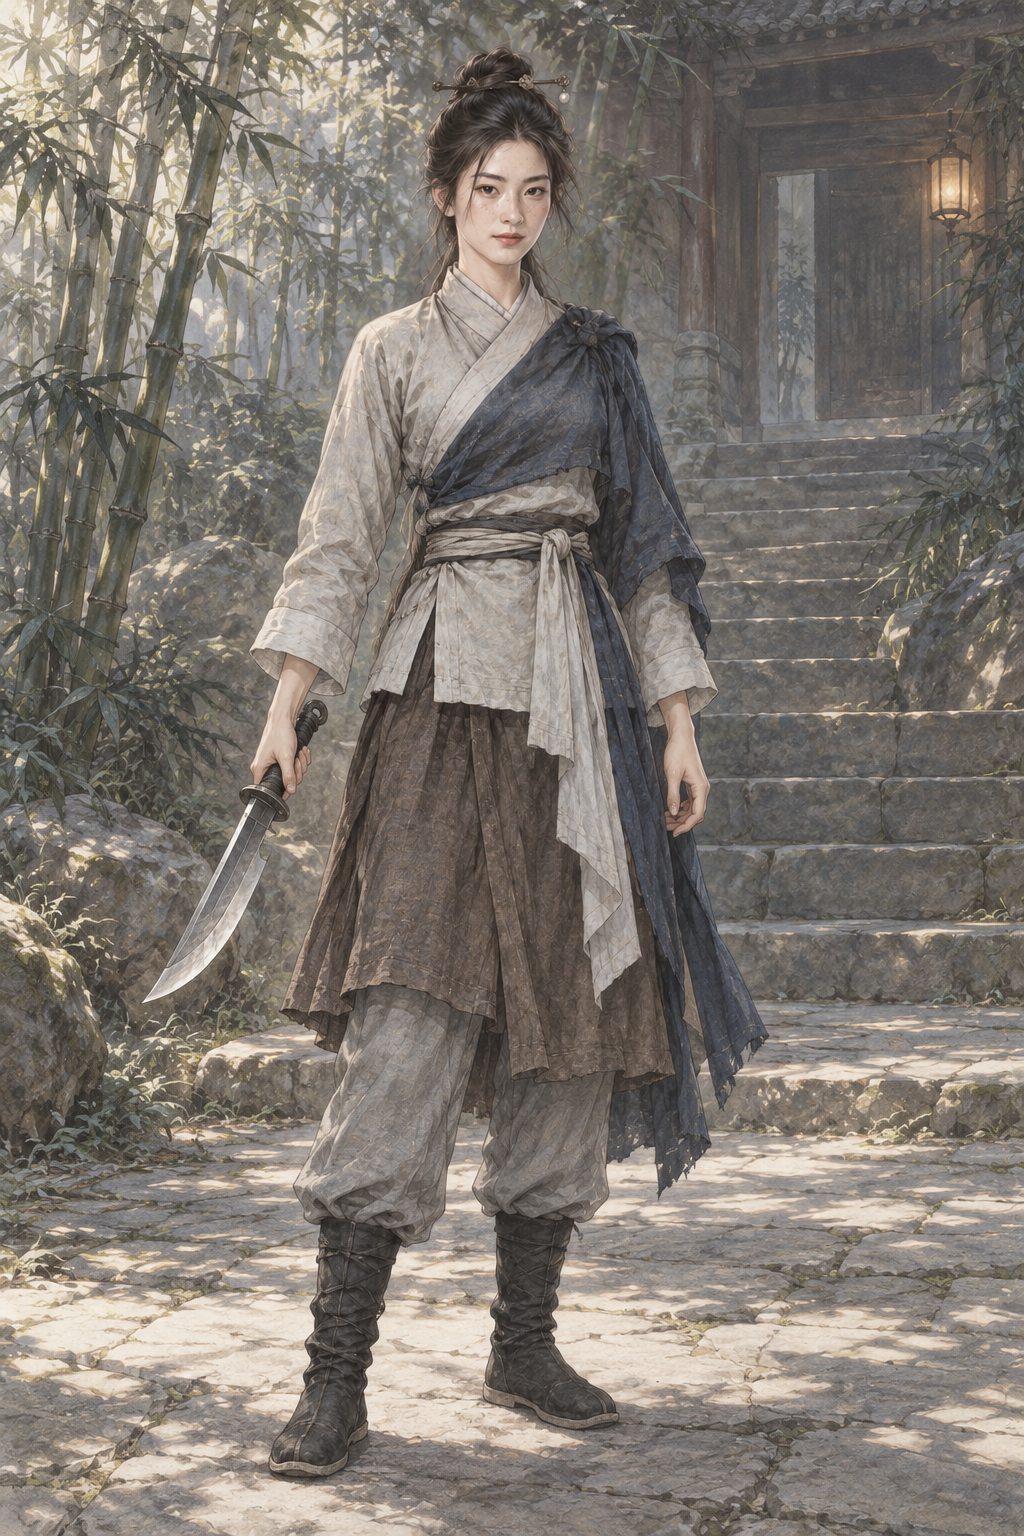
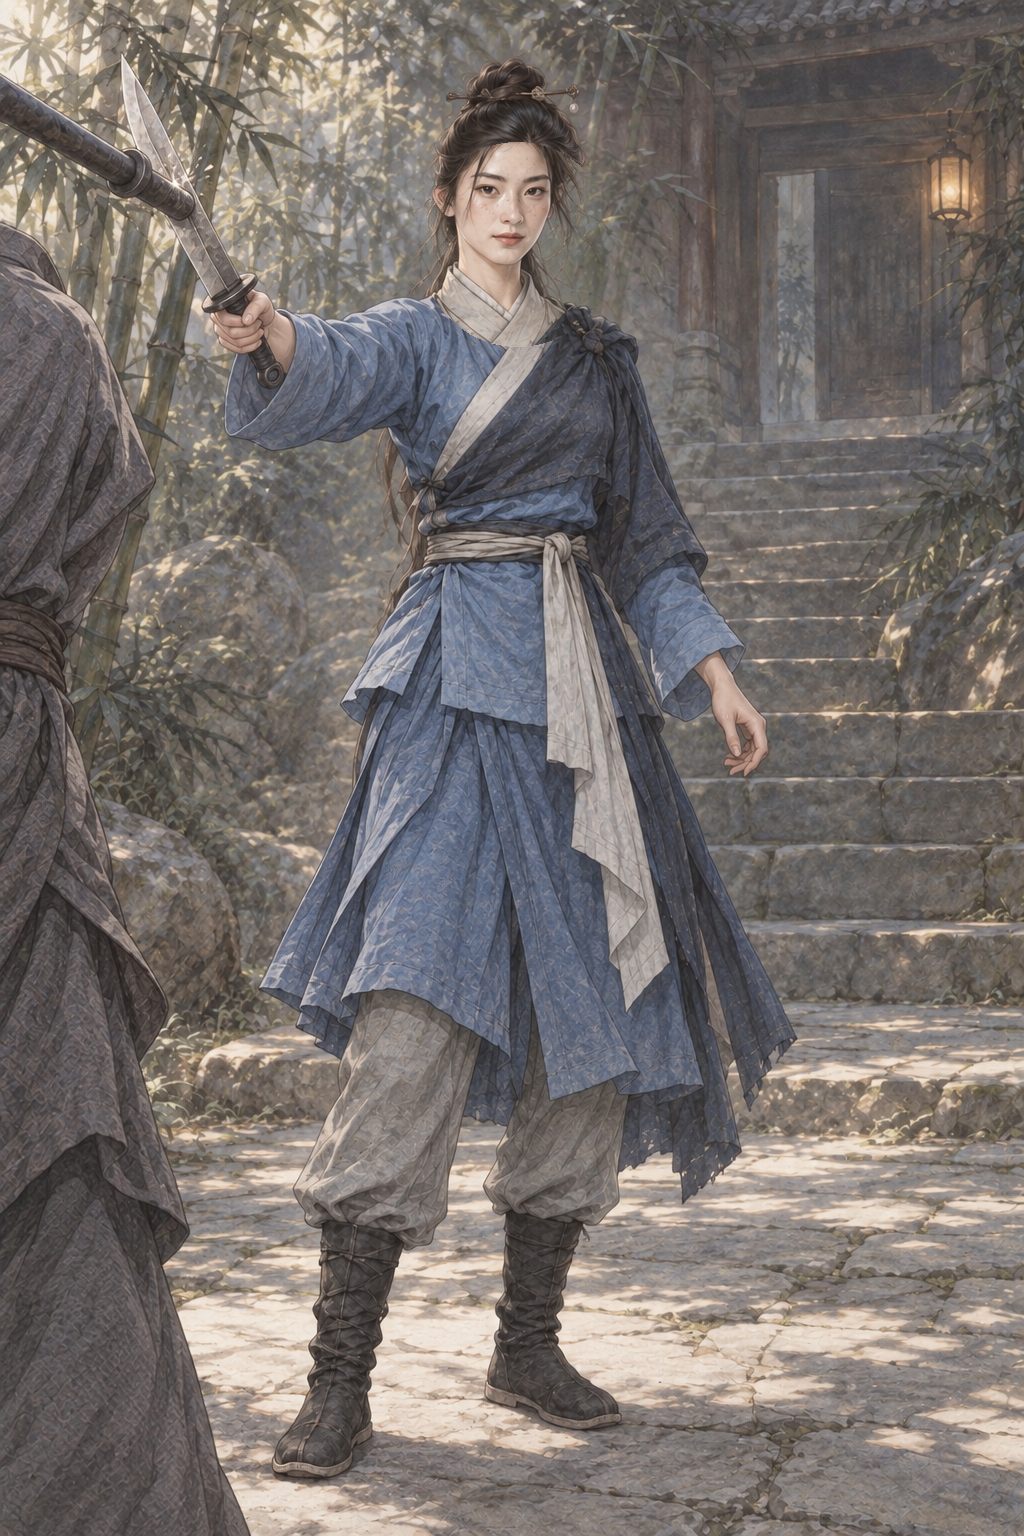
assets: AR-82 原著核对返修 萧中慧、袁冠南
修正原著明确的服饰、器物或剧情状态；编辑范围外像素保持，保留既定面容；同步原著摘句及当前返修要求。

Executed-By: Codex gpt-6.1-sol（AR-82）

diff --git a/assets/default/prompts/characters/ch11-yuanyang/npc_xiaozhonghui__scene_zizhu_short_blade_guard.md b/assets/default/prompts/characters/ch11-yuanyang/npc_xiaozhonghui__scene_zizhu_short_blade_guard.md
@@ -51,3 +51,17 @@ size: 1024x1536
 
 - 参考分工见实际提示词；配色、姿势、取景及成年化均为（原创扩展）。
 - 本轮结果已逐图目检并入库为 candidate；实际作业与参考哈希见 manifest。
+
+
+## 原著依据
+
+- AR-82 返修依据：《鸳鸯刀》转载第三节：“从头上拔下一枚金钗”。；来源：https://www.kanunu8.com/book6/yuanyangdao/50465.html；执行：紫竹庵阶段去掉先前赠出的金钗与珍珠，发髻以无描写的普通素簪固定；不得复用出发版珠钗。
+- AR-82 返修依据：《鸳鸯刀》转载第六节：“一位蓝衫姑娘”。；来源：https://www.kanunu8.com/book6/yuanyangdao/50468.html；执行：紫竹庵仍穿蓝衫；上衣主体明确蓝色，袖子同为蓝色；不自行改成灰白上衣、褐裙的换装。
+- AR-82 返修依据：《鸳鸯刀》紫竹庵合刀段：“抢着挥刀护住他的肩头”（转载第七节）。；来源：https://www.idushu.com/wx/yyd.html；执行：紫竹庵初合刀：短刀挥到袁冠南肩侧，身体侧护伤腿的袁；可用袁的局部肩背与来袭铁杖交代关系，主角仍为萧。
+
+
+## AR-82 当前返修约束
+
+紫竹庵初合刀的萧中慧：主体上衣与左右袖明确蓝衫（柔和中蓝，保留月白衣领和灰裤），不保留灰白上衣、褐裙换装。去掉发髻原金钗和双颗大珍珠，它们林中已经赠人；只用一根普通素簪固定原发髻，发髻轮廓不变。本人右手持现有普通短刀，刀刃上挥护住画面左边缘袁冠南的肩头，身体稍侧护；只加入袁的局部肩背与向其肩袭来的卓天雄铁杖，袁脸不用入画。保持萧原头脸位置大小、五官、发丝和表情，场景仍紫竹庵石阶竹林门口，不能独自垂刀静立。
+
+以本节及原著依据为当前要求，历史提示词与本节冲突时按本节执行；保留作者选定脸、原画质感与对应剧情阶段。

diff --git a/assets/default/prompts/characters/ch11-yuanyang/npc_yuanguannan__scene_ink_bluff_zhuo.md b/assets/default/prompts/characters/ch11-yuanyang/npc_yuanguannan__scene_ink_bluff_zhuo.md
@@ -51,3 +51,16 @@ size: 1024x1536
 
 - 参考分工见实际提示词；配色、姿势、取景及成年化均为（原创扩展）。
 - 本轮结果已逐图目检并入库为 candidate；实际作业与参考哈希见 manifest。
+
+
+## 原著依据
+
+- AR-82 返修依据：《鸳鸯刀》转载第六节：“打中了袁冠南左腿”“抹了一大条墨痕”。；来源：https://www.kanunu8.com/book6/yuanyangdao/50468.html；执行：左腿刚受铁棒击伤，重心偏右、左腿不敢着力；持笔朝卓天雄左手方向抹浓墨，以假毒药逼退敌人。墨痕不画在袁自己袖上。原文转载有手背/手臂字句差异，不编成两条黑水痕。
+- AR-82 返修依据：《鸳鸯刀》转载第八节：“细金链上的翡翠狮子”。；来源：https://www.kanunu8.com/book6/yuanyangdao/50470.html；执行：将翡翠小狮子以细金链挂在颈下，胸前可辨；保留小狮子的大小，去掉腰侧布绳挂法。
+
+
+## AR-82 当前返修约束
+
+袁冠南紫竹庵笔墨诈毒：左腿（画面右腿）刚遭铁棒打伤，明显卸力微屈，重心支在右腿，不画流血重伤。右手笔举向画面右边界卓天雄伸入的左手/前臂，在敌人的手背与前臂接触处抹一大条浓黑墨痕；只加入敌人左手和一小段铁杖，敌脸不入画。左手继续托原墨盒。墨不在袁自己的袖口，去掉现袖口黑墨。原翡翠小狮子改为细金链挂在颈下胸前，去腰側布绳挂法，狮子大小保持。脸、头部位置大小、原长袍配色与背景仍保持，不再平稳双腿承重地静态展示笔墨。
+
+以本节及原著依据为当前要求，历史提示词与本节冲突时按本节执行；保留作者选定脸、原画质感与对应剧情阶段。
